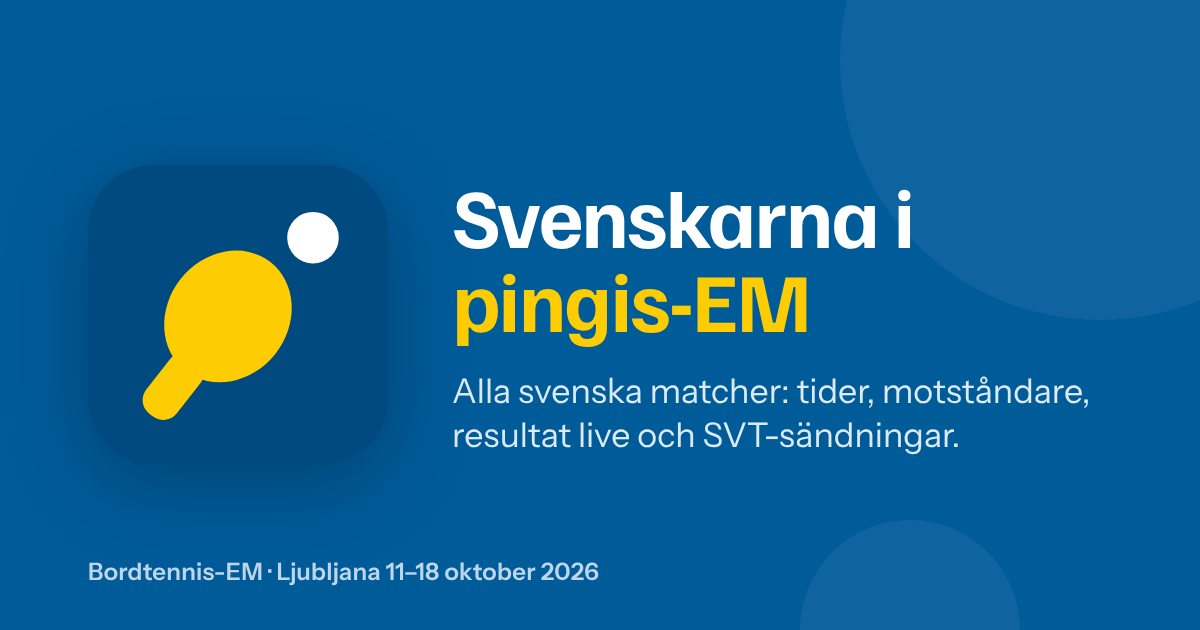
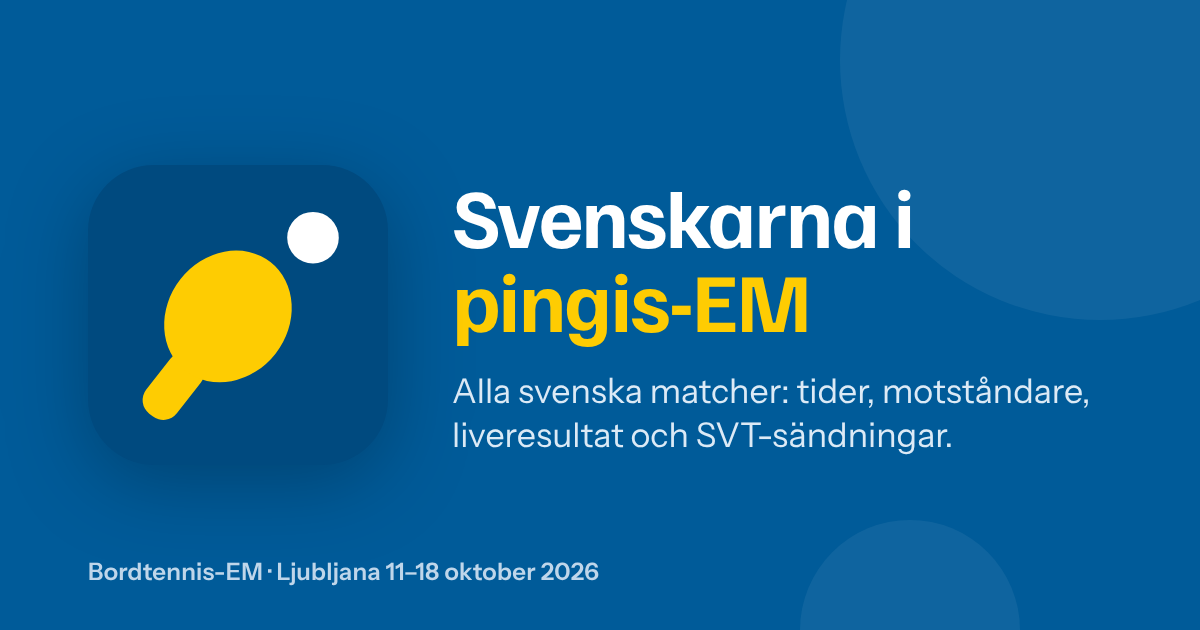
Share image: "liveresultat" instead of "resultat live"
Same wording in the image's alt text and the page description.

Claude-Session: https://claude.ai/code/session_015MfwEeRLDQfJpYQY19Doji

Changed region(s): [[0.37, 0.6635, 0.8017, 0.7238]]

diff --git a/app/layout.tsx b/app/layout.tsx
@@ -11,7 +11,7 @@ import { THEME_SCRIPT } from '@/lib/theme';
 const display = Familjen_Grotesk({ subsets: ['latin', 'latin-ext'], variable: '--font-display-face', display: 'swap' });
 const body = Instrument_Sans({ subsets: ['latin', 'latin-ext'], variable: '--font-body-face', display: 'swap' });
 
-const DESCRIPTION = 'Alla svenska matcher i bordtennis-EM: tider, motståndare, resultat live och SVT-sändningar.';
+const DESCRIPTION = 'Alla svenska matcher i bordtennis-EM: tider, motståndare, liveresultat och SVT-sändningar.';
 
 // Absolute URLs for og:image / og:url (Facebook needs them). Vercel sets the production domain.
 const SITE_URL = process.env.VERCEL_PROJECT_PRODUCTION_URL
